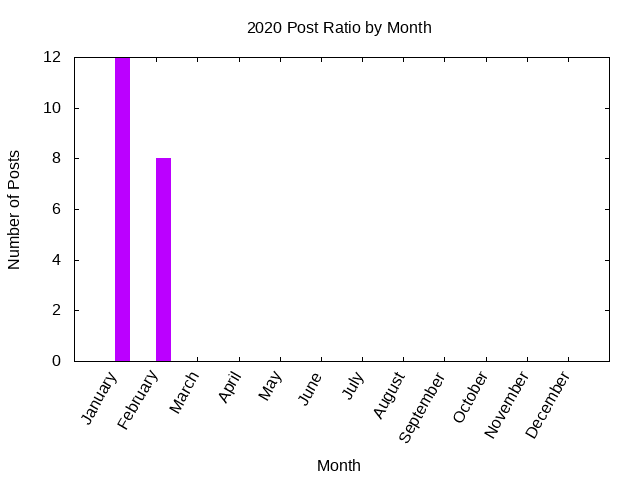
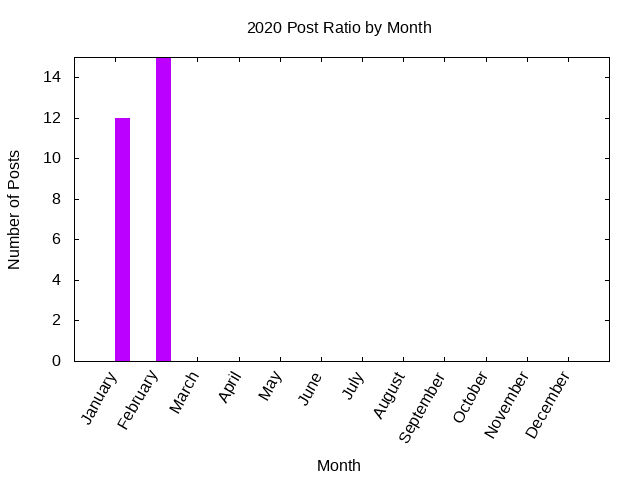
Updated stats.

diff --git a/_includes/stats/2020.md b/_includes/stats/2020.md
@@ -1,33 +1,36 @@
 ## 2020 (work in progress)
 
-**20 total posts** have been written on 2020.
-There have been *24 different tags* used, the most
+**27 total posts** have been written on 2020.
+There have been *27 different tags* used, the most
 used popular being (in order of number of posts):
  
-- *raku* (8 posts)  
-- *perl-weekly-challenge* (4 posts)  
+- *raku* (10 posts)  
+- *postgresql* (6 posts)  
+- *perl-weekly-challenge* (6 posts)  
+- *planet-postgresql-org* (5 posts)  
 - *blog* (4 posts)  
 - *php* (3 posts)  
-- *planet-postgresql-org* (3 posts)  
 - *linux* (3 posts)  
-- *postgresql* (3 posts)  
-- *aglets* (1 posts)  
-- *ssh* (1 posts)  
-- *hacktoberfest* (1 posts)  
-- *opensource* (1 posts)  
+- *oracle* (2 posts)  
+- *perl* (2 posts)  
 - *programming* (1 posts)  
-- *perl* (1 posts)  
+- *swap* (1 posts)  
+- *aglets* (1 posts)  
+- *freebsd* (1 posts)  
+- *university* (1 posts)  
 - *git* (1 posts)  
 - *magit* (1 posts)  
 - *multithreading* (1 posts)  
-- *cryptsetup* (1 posts)  
-- *freebsd* (1 posts)  
-- *oracle* (1 posts)  
-- *university* (1 posts)  
 - *qt* (1 posts)  
-- *java* (1 posts)  
-- *swap* (1 posts)  
-- *perl5* (1 posts).<br/>
+- *kde* (1 posts)  
+- *big-bang-theory* (1 posts)  
+- *opensource* (1 posts)  
+- *cryptsetup* (1 posts)  
+- *ssh* (1 posts)  
+- *sql* (1 posts)  
+- *perl5* (1 posts)  
+- *hacktoberfest* (1 posts)  
+- *java* (1 posts).<br/>
 <br/>
 The following is the overall 2020 post ratio by month:
 <br/>
@@ -46,7 +49,7 @@ The following is the overall 2020 post ratio by tag (showing max 30 tags):
 
 <div align="right">
 <small>
-Last generated on 2020-02-07 at 10:21
+Last generated on 2020-02-17 at 11:50
 </small>
 </div>
 
